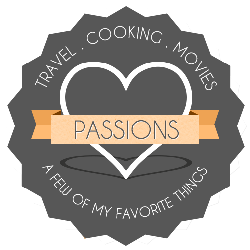
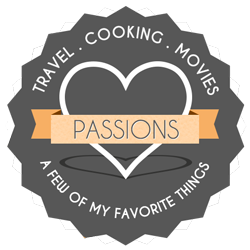
print styles and updated badges

diff --git a/index.html b/index.html
@@ -230,7 +230,7 @@
  
 
 						<li class="travel">Travel is a true passion mine, in 2015 my husband and I visited 14 cities including: 
-						Montego Bay, Casablanca, Fez, Marrakesh, Giza, Memphis, Cairo, Alexandria, Austin, Philadelphia, Phoenix, Washington D.C , San Francisco and Fort Lauderdale.</li>
+						Montego Bay, Casablanca, Fez, Marrakesh, Giza, Memphis, Cairo, Alexandria for our wedding and honeymoon. Then for fun, wedding and family trips we also visited Austin, Philadelphia, Phoenix, Washington D.C , San Francisco and Fort Lauderdale. </li>
 
 						<li class="movies">I love watching movies and can usually guess most of the major Oscar winners correctly each year. This makes me very useful in an office pool. </li>
 
@@ -476,6 +476,54 @@ js_cobject_arr['cid18730038']=0;
 	  	</div>
 
 	  </footer>
+	  <div id="print">
+
+	   <h4 class="m_5 top">Web</h4>
+	  <!--Portfolio Item 1-->
+						<img src="images/coffee_alley_full.png" />
+           				<span class="mobile">Local coffee shop responsive interface design for various devices.</span>
+                    
+             <!--Portfolio Item 2-->
+						<img src="images/ciq_full.png" />
+						<span class="mobile">Interface Designs for ClassroomIQ, an application which helps teachers grade papers faster and more efficiently.</span>	
+                       
+			 <!--Portfolio Item 5-->
+           				 <img src="images/summon_full.png"/>
+           				 <span class="mobile">Splash page and interface design for mobile application.</span>
+                      
+           	 <!--Portfolio Item 7-->
+              
+              			<img src="images/springleaf_full.png" />
+           				  <span class="mobile">Prototype for Springleaf Financial Service's location search interface.</span>	
+ 	      
+
+		<h4 class="m_5">Graphic</h4>
+                           
+			<!--Portfolio Item 4-->
+						<img src="images/telcomsp_full.png" />
+              			<span class="mobile">Logo design options for a telecommunications company.</span>
+                      
+                        
+           
+              <!--Portfolio Item 6-->
+						<img src="images/wedding_travel_full.png"/>
+						<span class="mobile">Infographic documenting my wedding and honeymoon journey in 2015.</span>	
+                        
+           <h4 class="m_5">Landscape</h4>
+            <!--Portfolio Item 3-->
+
+            <img  src="images/nw_full.png" />
+		
+             <span class="mobile">Proposed landscape design for new building design by KPMB Architects and landscape by Hoerr Schaudt Landscape Architects.</span>	
+                       
+                           
+			<!--Portfolio Item 8-->
+
+				<img src="images/bradley_full.png"/>
+              	<span class="mobile">Seasonal renderings for a Bradley University landscape design by Hoerr Schaudt Landscape Architects.</span>
+                      
+						
+	  </div>
 
 
 

diff --git a/css/style.css b/css/style.css
@@ -1416,4 +1416,73 @@ span.mobile{
 	text-align: justify;
 }
 
+#print{
+   	display:none;
+   }
+/*Print Styles*/
+
+@media print and (color) {
+
+   * {
+      -webkit-print-color-adjust: exact;
+      print-color-adjust: exact;
+   }
+
+     body {
+  -webkit-print-color-adjust: exact;
+ 
+
+}
+
+@page{
+size:8.27in 11.69in; 
+margin:.5in .5in .5in .5in; 
+mso-header-margin:.5in; 
+mso-footer-margin:.5in; 
+mso-paper-source:0;
+}
+
+
+ a[href]:after{
+        content:"";
+    }
+ a[href]:before{
+        content:"";
+   }
+
+    #menu, #galleryTab, #contact, .footer-bottom,#about , #resume, #work, .logo{
+        display:none !important;
+    }
+
+   #print{
+   	display:block;
+   }
+
+  .m_5{
+  	margin-bottom: .65in !important;
+  	page-break-before: always !important;
+  }
+  .m_5.top{
+  	page-break-before: avoid !important;
+  	margin-top:.5in;
+  }
+
+    .mobile{
+  	margin-bottom: .25in !important;
+  }
+  .break{
+  	page-break-after: always !important;
+  }
+  .page-title, .my_name {
+    margin: 0 !important ;
+}
+.container{
+	padding:0 !important;
+}
+
+}
+
+
+
+
 
